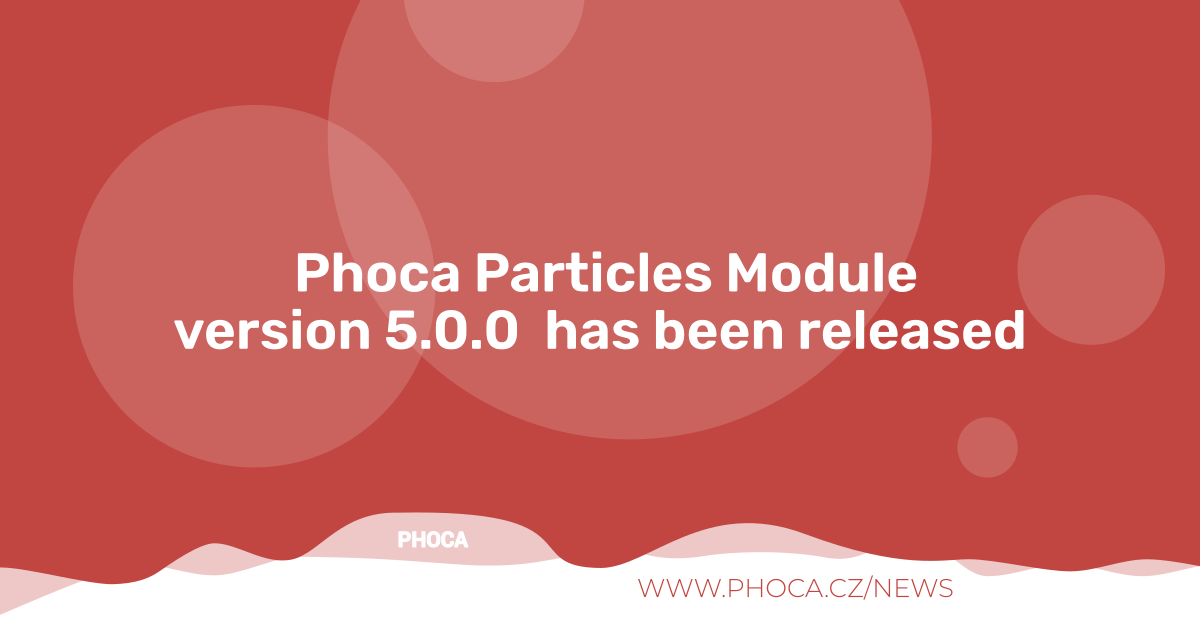
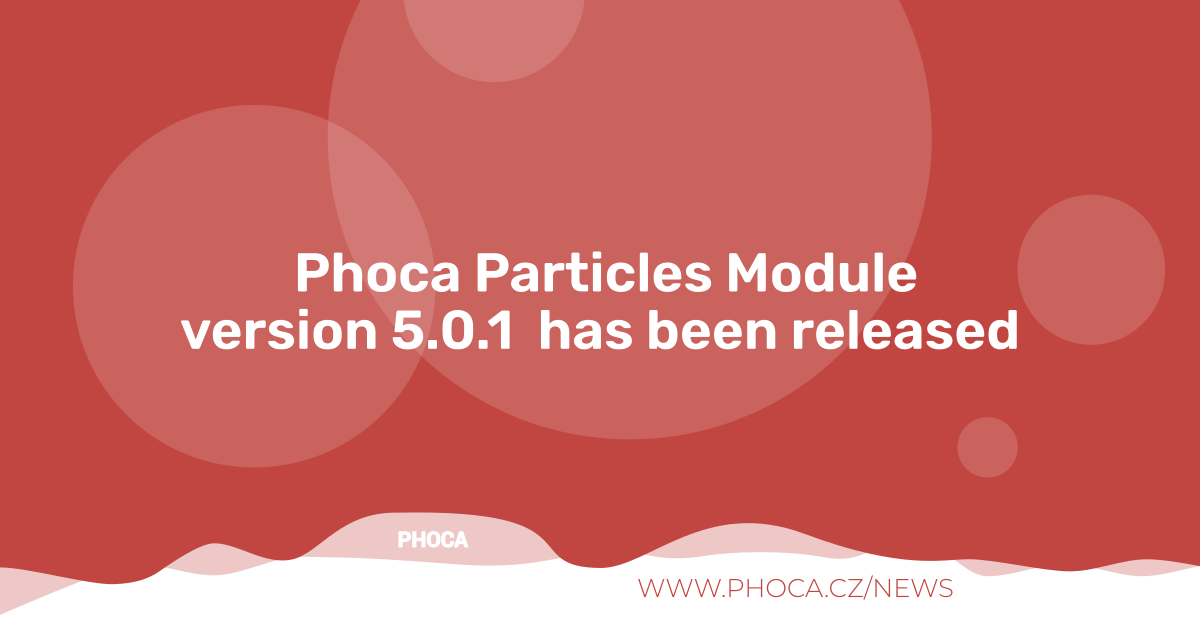
5.0.1

Changed region(s): [[0.1233, 0.4825, 0.8633, 0.573]]

diff --git a/models/fields/phocaheadexpert.php b/models/fields/phocaheadexpert.php
@@ -6,11 +6,16 @@
  * @copyright Copyright (C) Jan Pavelka www.phoca.cz
  * @license http://www.gnu.org/copyleft/gpl.html GNU/GPL
  */
+
+use Joomla\CMS\Form\FormField;
+use Joomla\CMS\HTML\HTMLHelper;
+use Joomla\CMS\Language\Text;
+
 defined('JPATH_BASE') or die;
 jimport('joomla.html.html');
 jimport('joomla.form.formfield');
 
-class JFormFieldPhocaHeadExpert extends JFormField
+class JFormFieldPhocaHeadExpert extends FormField
 {
 	protected $type = 'PhocaHeadExpert';
 	protected function getLabel() { return '';}
@@ -20,23 +25,23 @@ class JFormFieldPhocaHeadExpert extends JFormField
 		$tc = 'phocadownload';
 		$ts = 'media/com_'.$tc.'/css/administrator/';
 		$ti = 'media/com_'.$tc.'/images/administrator/';
-		JHTML::stylesheet( $ts.'/'.$tc.'options.css' );
+		HTMLHelper::stylesheet( $ts.'/'.$tc.'options.css' );
 		echo '<div style="clear:both;"></div>';
 		$phocaImage	= ( (string)$this->element['phocaimage'] ? $this->element['phocaimage'] : '' );
 		$image 		= '';
 
 		if ($phocaImage != ''){
-			$image 	= Joomla\CMS\HTML\HTMLHelper::_('image', $ti . $phocaImage, '' );
+			$image 	= HTMLHelper::_('image', $ti . $phocaImage, '' );
 		}
 
 		if ($this->element['default']) {
 			if ($image != '') {
 				return '<div class="ph-options-head-expert">'
-				.'<div>'. $image.' <strong>'. JText::_($this->element['default']) . '</strong></div>'
+				.'<div>'. $image.' <strong>'. Text::_($this->element['default']) . '</strong></div>'
 				.'</div>';
 			} else {
 				return '<div class="ph-options-head-expert">'
-				.'<strong>'. JText::_($this->element['default']) . '</strong>'
+				.'<strong>'. Text::_($this->element['default']) . '</strong>'
 				.'</div>';
 			}
 		} else {

diff --git a/models/fields/phocahead.php b/models/fields/phocahead.php
@@ -6,34 +6,39 @@
  * @copyright Copyright (C) Jan Pavelka www.phoca.cz
  * @license http://www.gnu.org/copyleft/gpl.html GNU/GPL
  */
+
+use Joomla\CMS\Form\FormField;
+use Joomla\CMS\HTML\HTMLHelper;
+use Joomla\CMS\Language\Text;
+
 defined('JPATH_BASE') or die;
 jimport('joomla.html.html');
 jimport('joomla.form.formfield');
 
-class JFormFieldPhocaHead extends JFormField
+class JFormFieldPhocaHead extends FormField
 {
 	protected $type = 'PhocaHead';
 	protected function getLabel() { return '';}
 
 	protected function getInput() {
 
-		JHTML::stylesheet( 'media/mod_phocaparticles/css/options.css' );
+		HTMLHelper::stylesheet( 'media/mod_phocaparticles/css/options.css' );
 		echo '<div style="clear:both;"></div>';
 		$phocaImage	= ( (string)$this->element['phocaimage'] ? $this->element['phocaimage'] : '' );
 		$image 		= '';
 
 		if ($phocaImage != ''){
-			$image 	= Joomla\CMS\HTML\HTMLHelper::_('image', 'media/mod_phocaparticles/images/' . $phocaImage, '' );
+			$image 	= HTMLHelper::_('image', 'media/mod_phocaparticles/images/' . $phocaImage, '' );
 		}
 
 		if ($this->element['default']) {
 			if ($image != '') {
 				return '<div class="ph-options-head">'
-				.'<div>'. $image.' <strong>'. JText::_($this->element['default']) . '</strong></div>'
+				.'<div>'. $image.' <strong>'. Text::_($this->element['default']) . '</strong></div>'
 				.'</div>';
 			} else {
 				return '<div class="ph-options-head">'
-				.'<strong>'. JText::_($this->element['default']) . '</strong>'
+				.'<strong>'. Text::_($this->element['default']) . '</strong>'
 				.'</div>';
 			}
 		} else {

diff --git a/tmpl/image_content.php b/tmpl/image_content.php
@@ -11,6 +11,7 @@
 defined('_JEXEC') or die('Restricted access');
 
 use Joomla\CMS\HTML\HTMLHelper;
+use Joomla\CMS\Uri\Uri;
 
 
 echo '<div class="'.$class .'" id="'. $id .'">';
@@ -97,9 +98,9 @@ echo '<div class="phModParticlesItem'.$boxWidthClass.$flexClass.'">';
 // OPEN IMAGE BLOCK
 
 if ($p['main_image'] != '') {
-    echo '<div class="phModParticlesItemImage'.$iC.'" '.$styleIcon.'>'. $linkStartIcon .'<img src="'.JURI::base() . '/'.htmlspecialchars(strip_tags($p['main_image'])).'" alt="'.$titleAlt.'" />'. $linkEnd .'';
+    echo '<div class="phModParticlesItemImage'.$iC.'" '.$styleIcon.'>'. $linkStartIcon .'<img src="'.URI::base() . '/'.htmlspecialchars(strip_tags($p['main_image'])).'" alt="'.$titleAlt.'" />'. $linkEnd .'';
 } else if (isset($items[0]->item_image) && $items[0]->item_image != ''){
-    echo '<div class="phModParticlesItemImage'.$iC.'" '.$styleIcon.'>'. $linkStartIcon .'<img src="'.JURI::base() . '/'.htmlspecialchars(strip_tags($items[0]->item_image)).'" alt="'.$titleAlt.'" />'. $linkEnd .'';
+    echo '<div class="phModParticlesItemImage'.$iC.'" '.$styleIcon.'>'. $linkStartIcon .'<img src="'.URI::base() . '/'.htmlspecialchars(strip_tags($items[0]->item_image)).'" alt="'.$titleAlt.'" />'. $linkEnd .'';
 } else if (isset($items[0]->item_image_svg) && $items[0]->item_image_svg != ''){
     echo '<div class="phModParticlesItemImage'.$iC.'" '.$styleIcon.'>'. $linkStartIcon .$items[0]->item_image_svg. $linkEnd .'';
 } else if ($p['main_video'] != '') {

diff --git a/tmpl/image_feature_box.php b/tmpl/image_feature_box.php
@@ -11,6 +11,7 @@
 defined('_JEXEC') or die('Restricted access');
 
 use Joomla\CMS\HTML\HTMLHelper;
+use Joomla\CMS\Uri\Uri;
 
 
 echo '<div class="'.$class .'" id="'. $id .'">';
@@ -94,7 +95,7 @@ echo '<div class="phModParticlesItem'.$boxWidthClass.$flexClass.'">';
 
 // OPEN IMAGE BLOCK
 if ($p['main_image'] != '') {
-    echo '<div class="phModParticlesItemImage'.$iC.'" '.$styleIcon.'>'. $linkStartIcon .'<img src="'.JURI::base() . '/'.htmlspecialchars(strip_tags($p['main_image'])).'" alt="'.$titleAlt.'" />'. $linkEnd .'';
+    echo '<div class="phModParticlesItemImage'.$iC.'" '.$styleIcon.'>'. $linkStartIcon .'<img src="'.URI::base() . '/'.htmlspecialchars(strip_tags($p['main_image'])).'" alt="'.$titleAlt.'" />'. $linkEnd .'';
 }
 
 
@@ -150,7 +151,7 @@ if (!empty($items)) {
         } else if (isset($v->item_image_svg) && $v->item_image_svg != '') {
 			echo '<div class="phModParticlesSvg" '.$styleIcon.'>'. $linkStartIcon .$v->item_image_svg. $linkEnd .'</div>';
 		} else if (isset($v->item_image) && $v->item_image != '') {
-			echo '<div class="phModParticlesImage" '.$styleIcon.'>'. $linkStartIcon .'<img src="'.JURI::base() . '/'.htmlspecialchars(strip_tags($v->item_image)).'" alt="'.$titleAlt.'" />'. $linkEnd .'</div>';
+			echo '<div class="phModParticlesImage" '.$styleIcon.'>'. $linkStartIcon .'<img src="'.URI::base() . '/'.htmlspecialchars(strip_tags($v->item_image)).'" alt="'.$titleAlt.'" />'. $linkEnd .'</div>';
 		}
 
         echo '</div>';

diff --git a/tmpl/image_background.php b/tmpl/image_background.php
@@ -12,6 +12,7 @@ defined('_JEXEC') or die('Restricted access');
 
 use Joomla\CMS\Factory;
 use Joomla\CMS\HTML\HTMLHelper;
+use Joomla\CMS\Uri\Uri;
 
 $document = Factory::getDocument();
 
@@ -91,9 +92,9 @@ if ($p['main_title'] != '') {
 
 // IMAGE Local (item) or GLOBAL (main)
 if ($p['main_image'] != '') {
-    echo '<div class="phModParticlesImage" '.$styleIcon.'>'. $linkStartIcon .'<img src="'.JURI::base() . '/'.htmlspecialchars(strip_tags($p['main_image'])).'"/>'. $linkEnd .'</div>';
+    echo '<div class="phModParticlesImage" '.$styleIcon.'>'. $linkStartIcon .'<img src="'.URI::base() . '/'.htmlspecialchars(strip_tags($p['main_image'])).'"/>'. $linkEnd .'</div>';
 } else if (isset($items[0]->item_image) && $items[0]->item_image != '') {
-    echo '<div class="phModParticlesImage" '.$styleIcon.'>'. $linkStartIcon .'<img src="'.JURI::base() . '/'.htmlspecialchars(strip_tags($items[0]->item_image)).'"/>'. $linkEnd .'</div>';
+    echo '<div class="phModParticlesImage" '.$styleIcon.'>'. $linkStartIcon .'<img src="'.URI::base() . '/'.htmlspecialchars(strip_tags($items[0]->item_image)).'"/>'. $linkEnd .'</div>';
 }
 
 // DESC Local (item) or GLOBAL (main)

diff --git a/tmpl/feature_box.php b/tmpl/feature_box.php
@@ -11,6 +11,7 @@
 defined('_JEXEC') or die('Restricted access');
 
 use Joomla\CMS\HTML\HTMLHelper;
+use Joomla\CMS\Uri\Uri;
 
 if (!empty($items)) {
 	echo '<div class="'.$class .'" id="'. $id .'">';
@@ -61,7 +62,7 @@ if (!empty($items)) {
         } else if (isset($v->item_image_svg) && $v->item_image_svg != '') {
 			echo '<div class="phModParticlesSvg" '.$styleIcon.'>'. $linkStartIcon .$v->item_image_svg. $linkEnd .'</div>';
 		} else if (isset($v->item_image) && $v->item_image != '') {
-			echo '<div class="phModParticlesImage" '.$styleIcon.'>'. $linkStartIcon .'<img src="'.JURI::base() . '/'.htmlspecialchars(strip_tags($v->item_image)).'" alt="'.$titleAlt.'" />'. $linkEnd .'</div>';
+			echo '<div class="phModParticlesImage" '.$styleIcon.'>'. $linkStartIcon .'<img src="'.URI::base() . '/'.htmlspecialchars(strip_tags($v->item_image)).'" alt="'.$titleAlt.'" />'. $linkEnd .'</div>';
 		}
 		if ($title != '') {
 			echo '<div class="phModParticlesTitle" '.$styleTitle.'>'. $linkStartTitle . $title. $linkEnd . '</div>';

diff --git a/tmpl/feature_row.php b/tmpl/feature_row.php
@@ -11,6 +11,7 @@
 defined('_JEXEC') or die('Restricted access');
 
 use Joomla\CMS\HTML\HTMLHelper;
+use Joomla\CMS\Uri\Uri;
 
 if (!empty($items)) {
 	echo '<div class="'.$class .'" id="'. $id .'">';
@@ -58,7 +59,7 @@ if (!empty($items)) {
         } else if (isset($v->item_image_svg) && $v->item_image_svg != '') {
 			echo '<div class="phModParticlesSvg" '.$styleIcon.'>'. $linkStartIcon .$v->item_image_svg. $linkEnd .'</div>';
 		} else if (isset($v->item_image) && $v->item_image != '') {
-			echo '<div class="phModParticlesImage" '.$styleIcon.'>'. $linkStartIcon .'<img src="'.JURI::base() . '/'.htmlspecialchars(strip_tags($v->item_image)).'" alt="'.$titleAlt.'" />'. $linkEnd .'</div>';
+			echo '<div class="phModParticlesImage" '.$styleIcon.'>'. $linkStartIcon .'<img src="'.URI::base() . '/'.htmlspecialchars(strip_tags($v->item_image)).'" alt="'.$titleAlt.'" />'. $linkEnd .'</div>';
 		}
 
 		if ($title != '') {

diff --git a/tmpl/image_row.php b/tmpl/image_row.php
@@ -61,7 +61,7 @@ if (!empty($items)) {
         } else if (isset($v->item_image_svg) && $v->item_image_svg != '') {
 			echo '<div class="phModParticlesSvg" '.$styleIcon.'>'. $linkStartIcon .$v->item_image_svg. $linkEnd .'</div>';
 		} else if (isset($v->item_image) && $v->item_image != '') {
-			echo '<div class="phModParticlesImage" '.$styleIcon.'>'. $linkStartIcon .'<img src="'.JURI::base() . '/'.htmlspecialchars(strip_tags($v->item_image)).'" alt="'.$titleAlt.'" />'. $linkEnd .'</div>';
+			echo '<div class="phModParticlesImage" '.$styleIcon.'>'. $linkStartIcon .'<img src="'.URI::base() . '/'.htmlspecialchars(strip_tags($v->item_image)).'" alt="'.$titleAlt.'" />'. $linkEnd .'</div>';
 		}
 		if ($title != '') {
 			echo '<div class="phModParticlesTitle" '.$styleTitle.'>'. $linkStartTitle . $title. $linkEnd . '</div>';

diff --git a/mod_phocaparticles.php b/mod_phocaparticles.php
@@ -11,6 +11,7 @@
 
 use Joomla\CMS\Component\ComponentHelper;
 use Joomla\CMS\Factory;
+use Joomla\CMS\Helper\ModuleHelper;
 use Joomla\CMS\HTML\HTMLHelper;
 use Joomla\CMS\Language\Text;
 use Joomla\CMS\Version;
@@ -217,5 +218,5 @@ if ($p['custom_css'] != '') {
 
 
 
-require(JModuleHelper::getLayoutPath('mod_phocaparticles', $p['type'] ));
+require(ModuleHelper::getLayoutPath('mod_phocaparticles', $p['type'] ));
 ?>

diff --git a/README.MD b/README.MD
@@ -60,7 +60,7 @@ Phoca Particles Module - a Joomla! CMS module which displays prepared HTML parts
 
 ## Version (Joomla! 5.x)
 
-5.0.0
+5.0.1
 
 
 
